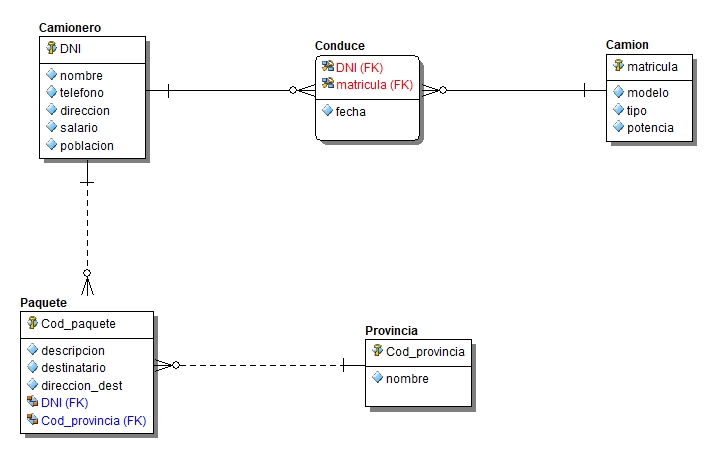
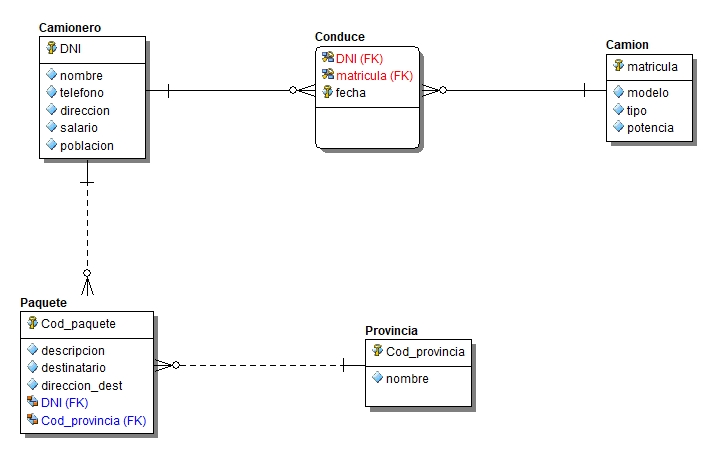
Proyecto Base de Datos II

Changed region(s): [[0.4314, 0.0615, 0.5854, 0.2769], [0.4314, 0.3077, 0.6162, 0.3385], [0.5854, 0.1231, 0.6162, 0.1538]]

diff --git a/js/unidad.js b/js/unidad.js
@@ -1,4 +1,4 @@
-// unidad.js - Versión corregida con mejor manejo de errores
+// unidad.js - Versión corregida con mejor manejo de errores + BOTÓN RESUMEN DE UNIDAD
 document.addEventListener('DOMContentLoaded', async function() {
   
   // ========== PARTÍCULAS (Tu código existente) ==========
@@ -164,6 +164,7 @@ document.addEventListener('DOMContentLoaded', async function() {
       unidadItem.dataset.unidadId = unidad.id;
       
       const semanasUnidad = semanas.filter(s => s.unidad_id === unidad.id);
+      const unidadCompleta = semanasUnidad.length >= 4; // ← TIENE 4 SEMANAS?
       
       unidadItem.innerHTML = `
         <div class="unidad-header">
@@ -179,6 +180,7 @@ document.addEventListener('DOMContentLoaded', async function() {
         <div class="semanas-container">
           <div class="semanas-grid">
             ${renderizarSemanas(semanasUnidad)}
+            ${unidadCompleta ? renderizarBotonResumen(unidad) : ''}
           </div>
         </div>
       `;
@@ -186,7 +188,7 @@ document.addEventListener('DOMContentLoaded', async function() {
       container.appendChild(unidadItem);
     });
 
-    // Inicializar acordeón
+    // Inicializar acordeón (FUNCIONALIDAD ORIGINAL)
     inicializarAcordeon();
     
     console.log('✅ Renderizado completado');
@@ -212,7 +214,7 @@ document.addEventListener('DOMContentLoaded', async function() {
   }
 });
 
-// Renderizar semanas
+// ========== RENDERIZAR SEMANAS (FUNCIONALIDAD ORIGINAL) ==========
 function renderizarSemanas(semanas) {
   if (!semanas || semanas.length === 0) {
     return '<p style="color: #94a3b8; text-align: center; grid-column: 1/-1; padding: 20px;">No hay semanas disponibles</p>';
@@ -222,7 +224,7 @@ function renderizarSemanas(semanas) {
     <div class="semana-card" onclick="verSemana(${semana.id})">
       <div class="semana-numero">Semana ${semana.numero}</div>
       <h3>${semana.titulo}</h3>
-      <p>${semana.descripcion || '           '}</p>
+      <p>${semana.descripcion || '           '}</p>
       <span class="semana-estado ${semana.estado === 'disponible' ? 'estado-disponible' : 'estado-proximo'}">
         ${semana.estado === 'disponible' ? '✓ Disponible' : '⏳ Próximamente'}
       </span>
@@ -230,7 +232,23 @@ function renderizarSemanas(semanas) {
   `).join('');
 }
 
-// Inicializar acordeón
+// ========== RENDERIZAR BOTÓN DE RESUMEN (NUEVO - SOLO SI HAY 4 SEMANAS) ==========
+function renderizarBotonResumen(unidad) {
+  return `
+    <div style="grid-column: 1 / -1; text-align: center; padding: 20px;">
+      <button 
+        onclick="event.stopPropagation(); abrirResumenUnidad(${unidad.numero})" 
+        style="background: linear-gradient(135deg, #00ffc3, #00cfa3); color: #0f172a; border: none; padding: 15px 30px; border-radius: 12px; font-weight: bold; cursor: pointer; box-shadow: 0 8px 25px rgba(0, 255, 195, 0.3); transition: all 0.3s ease; font-size: 1.1rem; display: inline-flex; align-items: center; gap: 10px;"
+        onmouseover="this.style.transform='translateY(-3px)'; this.style.boxShadow='0 12px 30px rgba(0, 255, 195, 0.5)'"
+        onmouseout="this.style.transform='translateY(0)'; this.style.boxShadow='0 8px 25px rgba(0, 255, 195, 0.3)'"
+      >
+        <i class="fas fa-chalkboard"></i> Ver Resumen de la Unidad ${unidad.numero}
+      </button>
+    </div>
+  `;
+}
+
+// ========== INICIALIZAR ACORDEÓN (FUNCIONALIDAD ORIGINAL - RESTAURADA) ==========
 function inicializarAcordeon() {
   const unidadHeaders = document.querySelectorAll('.unidad-header');
   unidadHeaders.forEach(header => {
@@ -253,8 +271,102 @@ function inicializarAcordeon() {
   }
 }
 
-// Ver semana
+// ========== VER SEMANA (FUNCIONALIDAD ORIGINAL) ==========
 function verSemana(id) {
   sessionStorage.setItem('semanaActual', id);
   window.location.href = `semana.html?id=${id}`;
 }
+
+// ========== ABRIR RESUMEN DE UNIDAD (MODAL CON GENIALLY) ==========
+function abrirResumenUnidad(numeroUnidad) {
+  // Crear modal si no existe
+  let modal = document.getElementById('modalResumenUnidad');
+  
+  if (!modal) {
+    modal = document.createElement('div');
+    modal.id = 'modalResumenUnidad';
+    modal.style.cssText = 'display: none; position: fixed; top: 0; left: 0; width: 100%; height: 100%; background: rgba(0, 0, 0, 0.95); z-index: 9999; align-items: center; justify-content: center; backdrop-filter: blur(10px); overflow-y: auto; -webkit-overflow-scrolling: touch;';
+    
+    modal.innerHTML = `
+      <div style="background: rgba(30, 41, 59, 0.98); border-radius: 20px; max-width: 1200px; width: 95%; max-height: 85vh; overflow-y: auto; border: 2px solid #00ffc3; position: relative; margin: 20px auto;">
+        
+        <!-- Botón cerrar -->
+        <button onclick="cerrarResumenUnidad()" 
+          style="position: absolute; top: 15px; right: 15px; background: rgba(0, 255, 195, 0.1); border: 1px solid #00ffc3; color: #00ffc3; font-size: 1.3rem; cursor: pointer; border-radius: 50%; width: 40px; height: 40px; display: flex; align-items: center; justify-content: center; z-index: 10; transition: all 0.3s ease;"
+          onmouseover="this.style.background='#00ffc3'; this.style.color='#0f172a'"
+          onmouseout="this.style.background='rgba(0, 255, 195, 0.1)'; this.style.color='#00ffc3'">
+          <i class="fas fa-times"></i>
+        </button>
+        
+        <!-- Contenido -->
+        <div style="padding: 30px;">
+          <h2 style="color: #00ffc3; text-align: center; margin-bottom: 20px; font-size: 1.8rem; padding-right: 40px;">
+            <i class="fas fa-chalkboard"></i> Resumen de la Unidad <span id="resumenUnidadNumero"></span>
+          </h2>
+          
+          <!-- Contenedor del Genially -->
+          <div style="position: relative; width: 100%; height: 0; padding-bottom: 56.25%; border-radius: 15px; overflow: hidden; box-shadow: 0 10px 30px rgba(0, 255, 195, 0.2); border: 1px solid #334155;">
+            <iframe 
+              id="resumenGeniallyFrame"
+              src="https://view.genially.com/69f25ce15df64b7e2a7a6015"
+              style="position: absolute; top: 0; left: 0; width: 100%; height: 100%; border: none;" 
+              allowfullscreen="true" 
+              webkitallowfullscreen="true" 
+              mozallowfullscreen="true"
+              allow="autoplay; fullscreen; picture-in-picture"
+              loading="lazy">
+            </iframe>
+          </div>
+          
+          <!-- Botones de acción -->
+          <div style="text-align: center; margin-top: 20px; display: flex; gap: 15px; justify-content: center; flex-wrap: wrap;">
+            <a href="https://view.genially.com/69f25ce15df64b7e2a7a6015" target="_blank" 
+               style="display: inline-flex; align-items: center; gap: 8px; background: transparent; border: 1px solid #334155; color: #cbd5e1; padding: 8px 16px; border-radius: 6px; text-decoration: none; font-size: 0.9rem; transition: all 0.3s ease;"
+               onmouseover="this.style.background='#00ffc3'; this.style.color='#0f172a'; this.style.borderColor='#00ffc3'"
+               onmouseout="this.style.background='transparent'; this.style.color='#cbd5e1'; this.style.borderColor='#334155'">
+              <i class="fas fa-external-link-alt"></i> Abrir en nueva pestaña
+            </a>
+            <button onclick="cerrarResumenUnidad()"
+               style="display: inline-flex; align-items: center; gap: 8px; background: #ef4444; border: none; color: white; padding: 8px 16px; border-radius: 6px; cursor: pointer; font-size: 0.9rem; transition: all 0.3s ease;"
+               onmouseover="this.style.background='#dc2626'"
+               onmouseout="this.style.background='#ef4444'">
+              <i class="fas fa-times"></i> Cerrar
+            </button>
+          </div>
+        </div>
+      </div>
+    `;
+    
+    document.body.appendChild(modal);
+    
+    // Cerrar haciendo clic fuera del contenido
+    modal.addEventListener('click', function(e) {
+      if (e.target === modal) {
+        cerrarResumenUnidad();
+      }
+    });
+  }
+  
+  // Actualizar número de unidad
+  document.getElementById('resumenUnidadNumero').textContent = numeroUnidad;
+  
+  // Mostrar modal
+  modal.style.display = 'flex';
+  document.body.style.overflow = 'hidden';
+}
+
+// ========== CERRAR RESUMEN DE UNIDAD ==========
+function cerrarResumenUnidad() {
+  const modal = document.getElementById('modalResumenUnidad');
+  if (modal) {
+    modal.style.display = 'none';
+    document.body.style.overflow = 'auto';
+  }
+}
+
+// Cerrar con tecla ESC (listener global)
+document.addEventListener('keydown', function(e) {
+  if (e.key === 'Escape') {
+    cerrarResumenUnidad();
+  }
+});